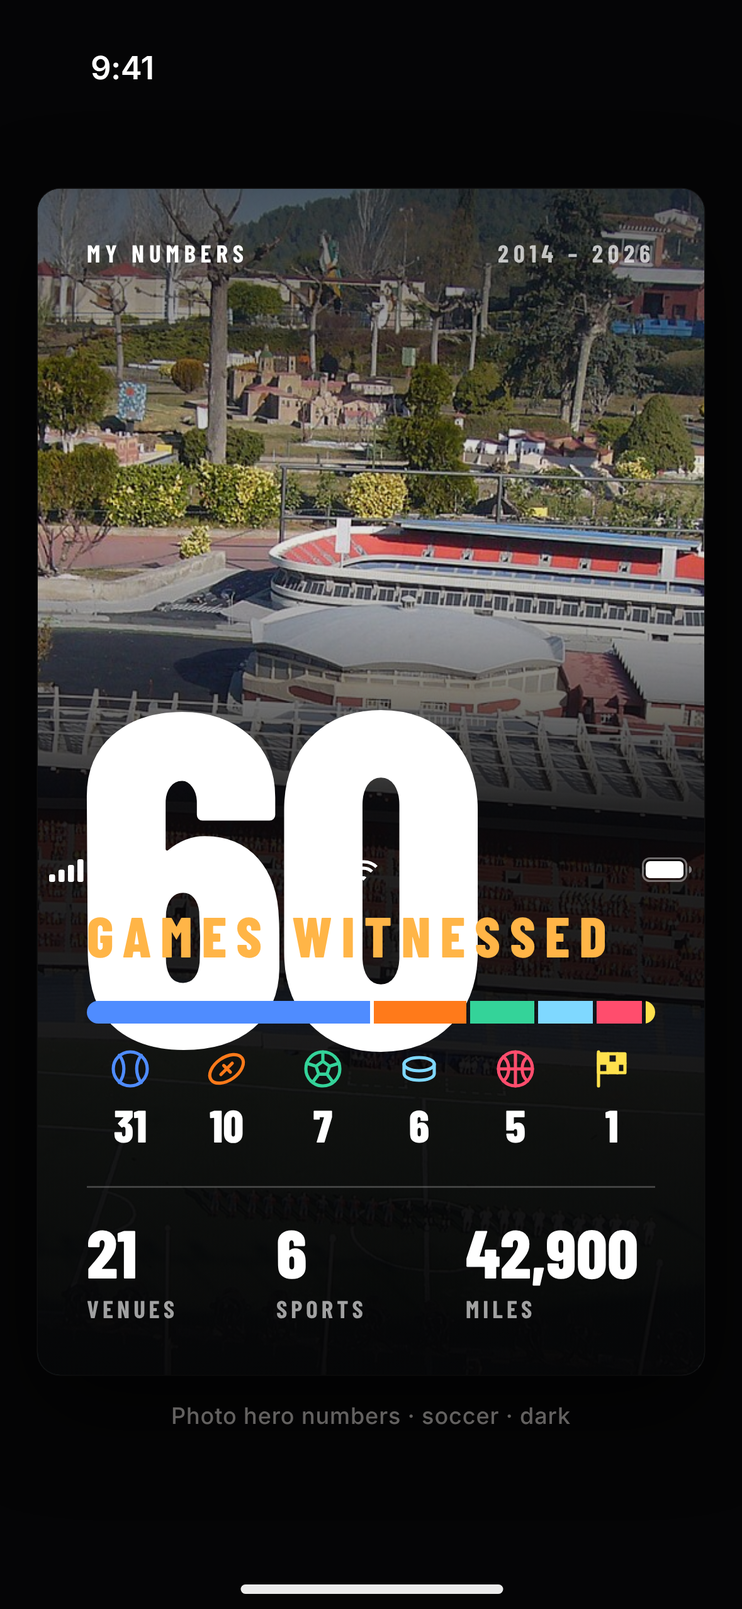
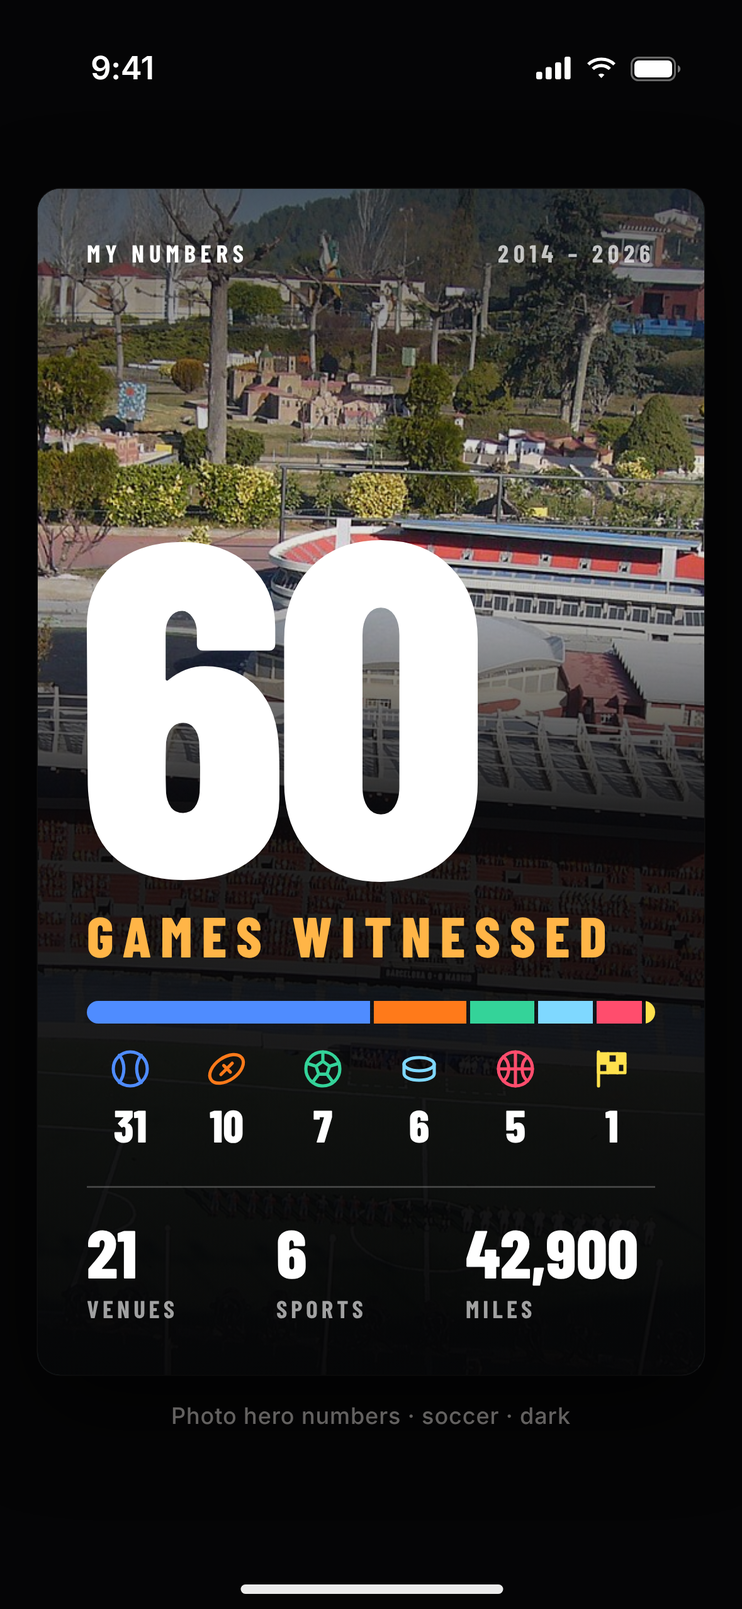
Share card round 2 mockups in progress (all sports)
Claude-Session: https://claude.ai/code/session_01YKCsRGYnDsF5Pryete24Wa

diff --git a/mockups/share-variants/features/numbers2/v5-racing-dotgrid-dark.html b/mockups/share-variants/features/numbers2/v5-racing-dotgrid-dark.html
@@ -12,27 +12,27 @@ body.phone{background:var(--ink)}
 .card{background:#07070a}
 .top{position:absolute;left:26px;right:26px;top:28px;display:flex;justify-content:space-between;color:#fff}
 .top .eb:last-child{color:var(--text-3)}
-.hero{position:absolute;left:20px;top:64px;font:800 200px/.8 var(--f-cond);letter-spacing:-6px;color:#fff}
-.lbl{position:absolute;left:26px;top:222px;font:800 28px/1 var(--f-cond);letter-spacing:5px;text-transform:uppercase;color:var(--signal)}
-.grid{position:absolute;left:26px;right:26px;top:276px;display:grid;grid-template-columns:repeat(10,1fr);gap:9px 9px}
+.hero{position:absolute;left:20px;top:56px;font:800 190px/.8 var(--f-cond);letter-spacing:-6px;color:#fff}
+.lbl{position:absolute;left:26px;top:206px;font:800 28px/1 var(--f-cond);letter-spacing:5px;text-transform:uppercase;color:var(--signal)}
+.grid{position:absolute;left:26px;right:26px;top:254px;display:grid;grid-template-columns:repeat(10,1fr);gap:9px 9px}
 .grid i{display:block;aspect-ratio:1;border-radius:50%}
 .grid i.rc{box-shadow:0 0 0 3px #07070a,0 0 0 5px #ffe14d,0 0 16px 5px rgba(255,225,77,.55)}
-.icons{position:absolute;left:26px;right:26px;top:440px;display:flex;justify-content:space-between}
+.sico{position:absolute;left:26px;right:26px;top:436px;display:flex;justify-content:space-between}
 .ic{display:flex;align-items:center;gap:6px}
 .ic b{font:800 20px/1 var(--f-cond);color:#fff}
-.callout{position:absolute;left:26px;right:26px;top:488px}
+.callout{position:absolute;left:26px;right:26px;top:480px}
 .callout b{display:block;font:800 26px/1.05 var(--f-cond);letter-spacing:.8px;text-transform:uppercase;color:#ffe14d}
 .callout span{display:block;margin-top:6px;font:600 14px/1.3 var(--f-ui);color:rgba(255,255,255,.66)}
-.row{position:absolute;left:26px;right:26px;bottom:28px;display:flex;border-top:1px solid rgba(255,255,255,.2);padding-top:16px}
+.row{position:absolute;left:26px;right:26px;bottom:24px;display:flex;border-top:1px solid rgba(255,255,255,.2);padding-top:14px}
 .row div{flex:1}
-.row b{display:block;font:800 34px/1 var(--f-cond);color:#fff}
+.row b{display:block;font:800 30px/1 var(--f-cond);color:#fff}
 .row span{display:block;margin-top:6px;font:700 13px/1 var(--f-cond);letter-spacing:2px;text-transform:uppercase;color:rgba(255,255,255,.6)}
 
 </style></head><body class="phone">
 <div class="card">
 <div class="top"><span class="eb">My numbers</span><span class="eb">2014 – 2026</span></div>
 <div class="hero">60</div><div class="lbl">Games witnessed</div>
-<div class="grid"><i style="background:#4f8cff"></i><i style="background:#4f8cff"></i><i style="background:#4f8cff"></i><i style="background:#4f8cff"></i><i style="background:#4f8cff"></i><i style="background:#4f8cff"></i><i style="background:#4f8cff"></i><i style="background:#4f8cff"></i><i style="background:#4f8cff"></i><i style="background:#4f8cff"></i><i style="background:#4f8cff"></i><i style="background:#4f8cff"></i><i style="background:#4f8cff"></i><i style="background:#4f8cff"></i><i style="background:#4f8cff"></i><i style="background:#4f8cff"></i><i style="background:#4f8cff"></i><i style="background:#4f8cff"></i><i style="background:#4f8cff"></i><i style="background:#4f8cff"></i><i style="background:#4f8cff"></i><i style="background:#4f8cff"></i><i style="background:#4f8cff"></i><i style="background:#4f8cff"></i><i style="background:#4f8cff"></i><i style="background:#4f8cff"></i><i style="background:#4f8cff"></i><i style="background:#4f8cff"></i><i style="background:#4f8cff"></i><i style="background:#4f8cff"></i><i style="background:#4f8cff"></i><i style="background:#ff7a1a"></i><i style="background:#ff7a1a"></i><i style="background:#ff7a1a"></i><i style="background:#ff7a1a"></i><i style="background:#ff7a1a"></i><i style="background:#ff7a1a"></i><i style="background:#ff7a1a"></i><i style="background:#ff7a1a"></i><i style="background:#ff7a1a"></i><i style="background:#ff7a1a"></i><i style="background:#34d399"></i><i style="background:#34d399"></i><i style="background:#34d399"></i><i style="background:#34d399"></i><i style="background:#34d399"></i><i style="background:#34d399"></i><i style="background:#34d399"></i><i style="background:#7fd8ff"></i><i style="background:#7fd8ff"></i><i style="background:#7fd8ff"></i><i style="background:#7fd8ff"></i><i style="background:#7fd8ff"></i><i style="background:#7fd8ff"></i><i style="background:#ff4d6d"></i><i style="background:#ff4d6d"></i><i style="background:#ff4d6d"></i><i style="background:#ff4d6d"></i><i style="background:#ff4d6d"></i><i class="rc" style="background:#ffe14d"></i></div><div class="icons"><div class="ic"><svg width="22" height="22" viewBox="0 0 24 24" fill="none" stroke="#4f8cff" stroke-width="1.7" stroke-linecap="round" stroke-linejoin="round" style="color:#4f8cff"><circle cx="12" cy="12" r="9"/><path d="M6.2 4.8c3.2 4.2 3.2 10.2 0 14.4M17.8 4.8c-3.2 4.2-3.2 10.2 0 14.4"/></svg><b>31</b></div><div class="ic"><svg width="22" height="22" viewBox="0 0 24 24" fill="none" stroke="#ff7a1a" stroke-width="1.7" stroke-linecap="round" stroke-linejoin="round" style="color:#ff7a1a"><ellipse cx="12" cy="12" rx="10" ry="6" transform="rotate(-35 12 12)"/><path d="M9 15l6-6M10.5 10.2l1.6 1.6M12.4 12.1l1.6 1.6"/></svg><b>10</b></div><div class="ic"><svg width="22" height="22" viewBox="0 0 24 24" fill="none" stroke="#34d399" stroke-width="1.7" stroke-linecap="round" stroke-linejoin="round" style="color:#34d399"><circle cx="12" cy="12" r="9"/><path d="M12 8l3.6 2.6-1.4 4.2H9.8l-1.4-4.2zM12 8V3M15.6 10.6l5-1.6M14.2 14.8l3 4M9.8 14.8l-3 4M8.4 10.6l-5-1.6"/></svg><b>7</b></div><div class="ic"><svg width="22" height="22" viewBox="0 0 24 24" fill="none" stroke="#7fd8ff" stroke-width="1.7" stroke-linecap="round" stroke-linejoin="round" style="color:#7fd8ff"><ellipse cx="12" cy="9.5" rx="8" ry="3.5"/><path d="M4 9.5v5c0 2 3.6 3.5 8 3.5s8-1.5 8-3.5v-5"/></svg><b>6</b></div><div class="ic"><svg width="22" height="22" viewBox="0 0 24 24" fill="none" stroke="#ff4d6d" stroke-width="1.7" stroke-linecap="round" stroke-linejoin="round" style="color:#ff4d6d"><circle cx="12" cy="12" r="9"/><path d="M3 12h18M12 3v18M5.6 5.6c3.8 3 3.8 9.8 0 12.8M18.4 5.6c-3.8 3-3.8 9.8 0 12.8"/></svg><b>5</b></div><div class="ic"><svg width="22" height="22" viewBox="0 0 24 24" fill="none" stroke="#ffe14d" stroke-width="1.7" stroke-linecap="round" stroke-linejoin="round" style="color:#ffe14d"><path d="M5 21V3"/><path d="M5 4h14v10H5z"/><path d="M5 9h14M10 4v10M15 4v10" /><path d="M5 4h5v5H5zM15 4h4v5h-4zM10 9h5v5h-5z" fill="currentColor" stroke="none"/></svg><b>1</b></div></div>
-<div class="callout"><b>And one Grand Prix</b><span>US Grand Prix · Circuit of the Americas · Oct 24 2021</span></div>
+<div class="grid"><i style="background:#4f8cff"></i><i style="background:#4f8cff"></i><i style="background:#4f8cff"></i><i style="background:#4f8cff"></i><i style="background:#4f8cff"></i><i style="background:#4f8cff"></i><i style="background:#4f8cff"></i><i style="background:#4f8cff"></i><i style="background:#4f8cff"></i><i style="background:#4f8cff"></i><i style="background:#4f8cff"></i><i style="background:#4f8cff"></i><i style="background:#4f8cff"></i><i style="background:#4f8cff"></i><i style="background:#4f8cff"></i><i style="background:#4f8cff"></i><i style="background:#4f8cff"></i><i style="background:#4f8cff"></i><i style="background:#4f8cff"></i><i style="background:#4f8cff"></i><i style="background:#4f8cff"></i><i style="background:#4f8cff"></i><i style="background:#4f8cff"></i><i style="background:#4f8cff"></i><i style="background:#4f8cff"></i><i style="background:#4f8cff"></i><i style="background:#4f8cff"></i><i style="background:#4f8cff"></i><i style="background:#4f8cff"></i><i style="background:#4f8cff"></i><i style="background:#4f8cff"></i><i style="background:#ff7a1a"></i><i style="background:#ff7a1a"></i><i style="background:#ff7a1a"></i><i style="background:#ff7a1a"></i><i style="background:#ff7a1a"></i><i style="background:#ff7a1a"></i><i style="background:#ff7a1a"></i><i style="background:#ff7a1a"></i><i style="background:#ff7a1a"></i><i style="background:#ff7a1a"></i><i style="background:#34d399"></i><i style="background:#34d399"></i><i style="background:#34d399"></i><i style="background:#34d399"></i><i style="background:#34d399"></i><i style="background:#34d399"></i><i style="background:#34d399"></i><i style="background:#7fd8ff"></i><i style="background:#7fd8ff"></i><i style="background:#7fd8ff"></i><i style="background:#7fd8ff"></i><i style="background:#7fd8ff"></i><i style="background:#7fd8ff"></i><i style="background:#ff4d6d"></i><i style="background:#ff4d6d"></i><i style="background:#ff4d6d"></i><i style="background:#ff4d6d"></i><i style="background:#ff4d6d"></i><i class="rc" style="background:#ffe14d"></i></div><div class="sico"><div class="ic"><svg width="22" height="22" viewBox="0 0 24 24" fill="none" stroke="#4f8cff" stroke-width="1.7" stroke-linecap="round" stroke-linejoin="round" style="color:#4f8cff"><circle cx="12" cy="12" r="9"/><path d="M6.2 4.8c3.2 4.2 3.2 10.2 0 14.4M17.8 4.8c-3.2 4.2-3.2 10.2 0 14.4"/></svg><b>31</b></div><div class="ic"><svg width="22" height="22" viewBox="0 0 24 24" fill="none" stroke="#ff7a1a" stroke-width="1.7" stroke-linecap="round" stroke-linejoin="round" style="color:#ff7a1a"><ellipse cx="12" cy="12" rx="10" ry="6" transform="rotate(-35 12 12)"/><path d="M9 15l6-6M10.5 10.2l1.6 1.6M12.4 12.1l1.6 1.6"/></svg><b>10</b></div><div class="ic"><svg width="22" height="22" viewBox="0 0 24 24" fill="none" stroke="#34d399" stroke-width="1.7" stroke-linecap="round" stroke-linejoin="round" style="color:#34d399"><circle cx="12" cy="12" r="9"/><path d="M12 8l3.6 2.6-1.4 4.2H9.8l-1.4-4.2zM12 8V3M15.6 10.6l5-1.6M14.2 14.8l3 4M9.8 14.8l-3 4M8.4 10.6l-5-1.6"/></svg><b>7</b></div><div class="ic"><svg width="22" height="22" viewBox="0 0 24 24" fill="none" stroke="#7fd8ff" stroke-width="1.7" stroke-linecap="round" stroke-linejoin="round" style="color:#7fd8ff"><ellipse cx="12" cy="9.5" rx="8" ry="3.5"/><path d="M4 9.5v5c0 2 3.6 3.5 8 3.5s8-1.5 8-3.5v-5"/></svg><b>6</b></div><div class="ic"><svg width="22" height="22" viewBox="0 0 24 24" fill="none" stroke="#ff4d6d" stroke-width="1.7" stroke-linecap="round" stroke-linejoin="round" style="color:#ff4d6d"><circle cx="12" cy="12" r="9"/><path d="M3 12h18M12 3v18M5.6 5.6c3.8 3 3.8 9.8 0 12.8M18.4 5.6c-3.8 3-3.8 9.8 0 12.8"/></svg><b>5</b></div><div class="ic"><svg width="22" height="22" viewBox="0 0 24 24" fill="none" stroke="#ffe14d" stroke-width="1.7" stroke-linecap="round" stroke-linejoin="round" style="color:#ffe14d"><path d="M5 21V3"/><path d="M5 4h14v10H5z"/><path d="M5 9h14M10 4v10M15 4v10" /><path d="M5 4h5v5H5zM15 4h4v5h-4zM10 9h5v5h-5z" fill="currentColor" stroke="none"/></svg><b>1</b></div></div>
+<div class="callout"><b>And one Grand Prix</b><span>Circuit of the Americas · Oct 24 2021</span></div>
 <div class="row"><div><b>21</b><span>Venues</span></div><div><b>6</b><span>Sports</span></div><div><b>42,900</b><span>Miles</span></div></div>
 </div><div class="cap">Dot grid numbers · racing · dark</div><script src="../../../kit/kit.js"></script></body></html>

diff --git a/mockups/share-variants/features/numbers2/v6-mixed-charm-paper-dots.html b/mockups/share-variants/features/numbers2/v6-mixed-charm-paper-dots.html
@@ -16,15 +16,15 @@ body.phone{background:var(--ink)}
 .av{position:absolute;left:30px;top:78px;width:64px;height:64px;border-radius:50%;background:#B79CFF;color:#1a1230;font:800 38px/64px var(--f-cond);text-align:center}
 .nm{position:absolute;left:110px;top:82px;font:800 58px/1 var(--f-cond);letter-spacing:1px;text-transform:uppercase}
 .nm2{position:absolute;left:110px;top:140px;font:700 13px/1 var(--f-cond);letter-spacing:2.4px;text-transform:uppercase;color:rgba(29,26,22,.6)}
-.hero{position:absolute;left:22px;top:170px;font:800 200px/.8 var(--f-cond);letter-spacing:-5px}
-.lbl{position:absolute;left:30px;top:336px;font:800 24px/1 var(--f-cond);letter-spacing:4px;text-transform:uppercase;color:#b4660a}
-.grid{position:absolute;left:30px;right:30px;top:384px;display:grid;grid-template-columns:repeat(10,1fr);gap:8px}
+.hero{position:absolute;left:22px;top:156px;font:800 190px/.8 var(--f-cond);letter-spacing:-5px}
+.lbl{position:absolute;left:30px;top:306px;font:800 24px/1 var(--f-cond);letter-spacing:4px;text-transform:uppercase;color:#b4660a}
+.grid{position:absolute;left:30px;right:30px;top:348px;display:grid;grid-template-columns:repeat(10,1fr);gap:6px}
 .grid i{display:block;aspect-ratio:1;border-radius:50%}
 .grid i.off{background:rgba(29,26,22,.11)}
 .grid i.l{border:2.5px solid;background:transparent}
-.icons{position:absolute;left:30px;right:30px;top:540px;display:flex;gap:18px}
+.sico{position:absolute;left:30px;right:30px;top:530px;display:flex;gap:18px}
 .ic{display:flex;align-items:center;gap:6px}.ic b{font:800 20px/1 var(--f-cond)}
-.foot{position:absolute;left:30px;right:30px;bottom:24px;border-top:1px solid rgba(29,26,22,.25);padding-top:12px;font:600 13px/1.3 var(--f-ui);color:rgba(29,26,22,.66)}
+.foot{position:absolute;left:30px;right:30px;bottom:20px;border-top:1px solid rgba(29,26,22,.25);padding-top:10px;font:600 13px/1.3 var(--f-ui);color:rgba(29,26,22,.66)}
 .foot b{display:block;font:800 20px/1.1 var(--f-cond);letter-spacing:.5px;color:var(--paper-ink);margin-bottom:3px}
 
 </style></head><body class="phone">
@@ -32,6 +32,6 @@ body.phone{background:var(--ink)}
 <div class="top"><span class="eb">Lucky charm</span><span class="eb">13 of 60 games</span></div>
 <div class="av">D</div><div class="nm">Dana</div><div class="nm2">Four sports together</div>
 <div class="hero">11–2</div><div class="lbl">Every game with her</div>
-<div class="grid"><i class="on" style="background:#1f8fc4"></i><i class="off"></i><i class="off"></i><i class="off"></i><i class="on" style="background:#d02848"></i><i class="off"></i><i class="on" style="background:#1f8fc4"></i><i class="off"></i><i class="off"></i><i class="off"></i><i class="off"></i><i class="off"></i><i class="off"></i><i class="off"></i><i class="off"></i><i class="on" style="background:#1f8fc4"></i><i class="on" style="background:#2b5fd9"></i><i class="off"></i><i class="off"></i><i class="off"></i><i class="off"></i><i class="on" style="background:#2b5fd9"></i><i class="off"></i><i class="off"></i><i class="off"></i><i class="off"></i><i class="off"></i><i class="off"></i><i class="off"></i><i class="off"></i><i class="off"></i><i class="off"></i><i class="on" style="background:#0f9d68"></i><i class="on l" style="color:#0f9d68;border-color:#0f9d68"></i><i class="off"></i><i class="off"></i><i class="off"></i><i class="off"></i><i class="off"></i><i class="on l" style="color:#2b5fd9;border-color:#2b5fd9"></i><i class="off"></i><i class="off"></i><i class="off"></i><i class="off"></i><i class="off"></i><i class="off"></i><i class="on" style="background:#2b5fd9"></i><i class="off"></i><i class="off"></i><i class="off"></i><i class="off"></i><i class="off"></i><i class="off"></i><i class="off"></i><i class="off"></i><i class="off"></i><i class="on" style="background:#2b5fd9"></i><i class="off"></i><i class="on" style="background:#d02848"></i><i class="on" style="background:#2b5fd9"></i></div><div class="icons"><div class="ic"><svg width="22" height="22" viewBox="0 0 24 24" fill="none" stroke="#2b5fd9" stroke-width="1.7" stroke-linecap="round" stroke-linejoin="round" style="color:#2b5fd9"><circle cx="12" cy="12" r="9"/><path d="M6.2 4.8c3.2 4.2 3.2 10.2 0 14.4M17.8 4.8c-3.2 4.2-3.2 10.2 0 14.4"/></svg><b>6</b></div><div class="ic"><svg width="22" height="22" viewBox="0 0 24 24" fill="none" stroke="#0f9d68" stroke-width="1.7" stroke-linecap="round" stroke-linejoin="round" style="color:#0f9d68"><circle cx="12" cy="12" r="9"/><path d="M12 8l3.6 2.6-1.4 4.2H9.8l-1.4-4.2zM12 8V3M15.6 10.6l5-1.6M14.2 14.8l3 4M9.8 14.8l-3 4M8.4 10.6l-5-1.6"/></svg><b>2</b></div><div class="ic"><svg width="22" height="22" viewBox="0 0 24 24" fill="none" stroke="#1f8fc4" stroke-width="1.7" stroke-linecap="round" stroke-linejoin="round" style="color:#1f8fc4"><ellipse cx="12" cy="9.5" rx="8" ry="3.5"/><path d="M4 9.5v5c0 2 3.6 3.5 8 3.5s8-1.5 8-3.5v-5"/></svg><b>3</b></div><div class="ic"><svg width="22" height="22" viewBox="0 0 24 24" fill="none" stroke="#d02848" stroke-width="1.7" stroke-linecap="round" stroke-linejoin="round" style="color:#d02848"><circle cx="12" cy="12" r="9"/><path d="M3 12h18M12 3v18M5.6 5.6c3.8 3 3.8 9.8 0 12.8M18.4 5.6c-3.8 3-3.8 9.8 0 12.8"/></svg><b>2</b></div></div>
-<div class="foot"><b>Without her, 30–14–2</b>Filled dot, a win · ring, a loss · grey, she was not there</div>
+<div class="grid"><i class="on" style="background:#1f8fc4"></i><i class="off"></i><i class="off"></i><i class="off"></i><i class="on" style="background:#d02848"></i><i class="off"></i><i class="on" style="background:#1f8fc4"></i><i class="off"></i><i class="off"></i><i class="off"></i><i class="off"></i><i class="off"></i><i class="off"></i><i class="off"></i><i class="off"></i><i class="on" style="background:#1f8fc4"></i><i class="on" style="background:#2b5fd9"></i><i class="off"></i><i class="off"></i><i class="off"></i><i class="off"></i><i class="on" style="background:#2b5fd9"></i><i class="off"></i><i class="off"></i><i class="off"></i><i class="off"></i><i class="off"></i><i class="off"></i><i class="off"></i><i class="off"></i><i class="off"></i><i class="off"></i><i class="on" style="background:#0f9d68"></i><i class="on l" style="color:#0f9d68;border-color:#0f9d68"></i><i class="off"></i><i class="off"></i><i class="off"></i><i class="off"></i><i class="off"></i><i class="on l" style="color:#2b5fd9;border-color:#2b5fd9"></i><i class="off"></i><i class="off"></i><i class="off"></i><i class="off"></i><i class="off"></i><i class="off"></i><i class="on" style="background:#2b5fd9"></i><i class="off"></i><i class="off"></i><i class="off"></i><i class="off"></i><i class="off"></i><i class="off"></i><i class="off"></i><i class="off"></i><i class="off"></i><i class="on" style="background:#2b5fd9"></i><i class="off"></i><i class="on" style="background:#d02848"></i><i class="on" style="background:#2b5fd9"></i></div><div class="sico"><div class="ic"><svg width="22" height="22" viewBox="0 0 24 24" fill="none" stroke="#2b5fd9" stroke-width="1.7" stroke-linecap="round" stroke-linejoin="round" style="color:#2b5fd9"><circle cx="12" cy="12" r="9"/><path d="M6.2 4.8c3.2 4.2 3.2 10.2 0 14.4M17.8 4.8c-3.2 4.2-3.2 10.2 0 14.4"/></svg><b>6</b></div><div class="ic"><svg width="22" height="22" viewBox="0 0 24 24" fill="none" stroke="#0f9d68" stroke-width="1.7" stroke-linecap="round" stroke-linejoin="round" style="color:#0f9d68"><circle cx="12" cy="12" r="9"/><path d="M12 8l3.6 2.6-1.4 4.2H9.8l-1.4-4.2zM12 8V3M15.6 10.6l5-1.6M14.2 14.8l3 4M9.8 14.8l-3 4M8.4 10.6l-5-1.6"/></svg><b>2</b></div><div class="ic"><svg width="22" height="22" viewBox="0 0 24 24" fill="none" stroke="#1f8fc4" stroke-width="1.7" stroke-linecap="round" stroke-linejoin="round" style="color:#1f8fc4"><ellipse cx="12" cy="9.5" rx="8" ry="3.5"/><path d="M4 9.5v5c0 2 3.6 3.5 8 3.5s8-1.5 8-3.5v-5"/></svg><b>3</b></div><div class="ic"><svg width="22" height="22" viewBox="0 0 24 24" fill="none" stroke="#d02848" stroke-width="1.7" stroke-linecap="round" stroke-linejoin="round" style="color:#d02848"><circle cx="12" cy="12" r="9"/><path d="M3 12h18M12 3v18M5.6 5.6c3.8 3 3.8 9.8 0 12.8M18.4 5.6c-3.8 3-3.8 9.8 0 12.8"/></svg><b>2</b></div></div>
+<div class="foot"><b>Without her, 30–14–2</b>Filled, a win · ring, a loss · grey, not there</div>
 </div><div class="cap">Lucky charm, dot grid · mixed sports · paper</div><script src="../../../kit/kit.js"></script></body></html>

diff --git a/mockups/share-variants/features/numbers2/v1-soccer-photo-dark.html b/mockups/share-variants/features/numbers2/v1-soccer-photo-dark.html
@@ -13,11 +13,11 @@ body.phone{background:var(--ink)}
 .scrim{position:absolute;inset:0;background:linear-gradient(180deg,rgba(5,5,6,.6) 0,rgba(5,5,6,.1) 24%,rgba(5,5,6,.1) 30%,rgba(5,5,6,.86) 52%,rgba(5,5,6,.97) 100%)}
 .top{position:absolute;left:26px;right:26px;top:28px;display:flex;justify-content:space-between;color:#fff}
 .top .eb:last-child{color:rgba(255,255,255,.72)}
-.hero{position:absolute;left:20px;top:262px;font:800 250px/.74 var(--f-cond);letter-spacing:-8px;color:#fff}
+.hero{position:absolute;left:20px;top:172px;font:800 250px/.74 var(--f-cond);letter-spacing:-8px;color:#fff}
 .lbl{position:absolute;left:26px;top:380px;font:800 30px/1 var(--f-cond);letter-spacing:5px;text-transform:uppercase;color:var(--signal)}
 .bar{position:absolute;left:26px;right:26px;top:430px;height:12px;border-radius:6px;overflow:hidden;display:flex;gap:2px}
 .bar i{display:block;height:100%}
-.icons{position:absolute;left:26px;right:26px;top:454px;display:flex;justify-content:space-between}
+.sico{position:absolute;left:26px;right:26px;top:454px;display:flex;justify-content:space-between}
 .ic{display:flex;flex-direction:column;align-items:center;gap:6px;width:46px}
 .ic b{font:800 24px/1 var(--f-cond);color:#fff}
 .row{position:absolute;left:26px;right:26px;bottom:28px;display:flex;border-top:1px solid rgba(255,255,255,.22);padding-top:16px}
@@ -30,6 +30,6 @@ body.phone{background:var(--ink)}
 <div class="card"><div class="ph"></div><div class="scrim"></div>
 <div class="top"><span class="eb">My numbers</span><span class="eb">2014 – 2026</span></div>
 <div class="hero">60</div><div class="lbl">Games witnessed</div>
-<div class="bar"><i style="flex:31;background:#4f8cff"></i><i style="flex:10;background:#ff7a1a"></i><i style="flex:7;background:#34d399"></i><i style="flex:6;background:#7fd8ff"></i><i style="flex:5;background:#ff4d6d"></i><i style="flex:1;background:#ffe14d"></i></div><div class="icons"><div class="ic"><svg width="24" height="24" viewBox="0 0 24 24" fill="none" stroke="#4f8cff" stroke-width="1.7" stroke-linecap="round" stroke-linejoin="round" style="color:#4f8cff"><circle cx="12" cy="12" r="9"/><path d="M6.2 4.8c3.2 4.2 3.2 10.2 0 14.4M17.8 4.8c-3.2 4.2-3.2 10.2 0 14.4"/></svg><b>31</b></div><div class="ic"><svg width="24" height="24" viewBox="0 0 24 24" fill="none" stroke="#ff7a1a" stroke-width="1.7" stroke-linecap="round" stroke-linejoin="round" style="color:#ff7a1a"><ellipse cx="12" cy="12" rx="10" ry="6" transform="rotate(-35 12 12)"/><path d="M9 15l6-6M10.5 10.2l1.6 1.6M12.4 12.1l1.6 1.6"/></svg><b>10</b></div><div class="ic"><svg width="24" height="24" viewBox="0 0 24 24" fill="none" stroke="#34d399" stroke-width="1.7" stroke-linecap="round" stroke-linejoin="round" style="color:#34d399"><circle cx="12" cy="12" r="9"/><path d="M12 8l3.6 2.6-1.4 4.2H9.8l-1.4-4.2zM12 8V3M15.6 10.6l5-1.6M14.2 14.8l3 4M9.8 14.8l-3 4M8.4 10.6l-5-1.6"/></svg><b>7</b></div><div class="ic"><svg width="24" height="24" viewBox="0 0 24 24" fill="none" stroke="#7fd8ff" stroke-width="1.7" stroke-linecap="round" stroke-linejoin="round" style="color:#7fd8ff"><ellipse cx="12" cy="9.5" rx="8" ry="3.5"/><path d="M4 9.5v5c0 2 3.6 3.5 8 3.5s8-1.5 8-3.5v-5"/></svg><b>6</b></div><div class="ic"><svg width="24" height="24" viewBox="0 0 24 24" fill="none" stroke="#ff4d6d" stroke-width="1.7" stroke-linecap="round" stroke-linejoin="round" style="color:#ff4d6d"><circle cx="12" cy="12" r="9"/><path d="M3 12h18M12 3v18M5.6 5.6c3.8 3 3.8 9.8 0 12.8M18.4 5.6c-3.8 3-3.8 9.8 0 12.8"/></svg><b>5</b></div><div class="ic"><svg width="24" height="24" viewBox="0 0 24 24" fill="none" stroke="#ffe14d" stroke-width="1.7" stroke-linecap="round" stroke-linejoin="round" style="color:#ffe14d"><path d="M5 21V3"/><path d="M5 4h14v10H5z"/><path d="M5 9h14M10 4v10M15 4v10" /><path d="M5 4h5v5H5zM15 4h4v5h-4zM10 9h5v5h-5z" fill="currentColor" stroke="none"/></svg><b>1</b></div></div>
+<div class="bar"><i style="flex:31;background:#4f8cff"></i><i style="flex:10;background:#ff7a1a"></i><i style="flex:7;background:#34d399"></i><i style="flex:6;background:#7fd8ff"></i><i style="flex:5;background:#ff4d6d"></i><i style="flex:1;background:#ffe14d"></i></div><div class="sico"><div class="ic"><svg width="24" height="24" viewBox="0 0 24 24" fill="none" stroke="#4f8cff" stroke-width="1.7" stroke-linecap="round" stroke-linejoin="round" style="color:#4f8cff"><circle cx="12" cy="12" r="9"/><path d="M6.2 4.8c3.2 4.2 3.2 10.2 0 14.4M17.8 4.8c-3.2 4.2-3.2 10.2 0 14.4"/></svg><b>31</b></div><div class="ic"><svg width="24" height="24" viewBox="0 0 24 24" fill="none" stroke="#ff7a1a" stroke-width="1.7" stroke-linecap="round" stroke-linejoin="round" style="color:#ff7a1a"><ellipse cx="12" cy="12" rx="10" ry="6" transform="rotate(-35 12 12)"/><path d="M9 15l6-6M10.5 10.2l1.6 1.6M12.4 12.1l1.6 1.6"/></svg><b>10</b></div><div class="ic"><svg width="24" height="24" viewBox="0 0 24 24" fill="none" stroke="#34d399" stroke-width="1.7" stroke-linecap="round" stroke-linejoin="round" style="color:#34d399"><circle cx="12" cy="12" r="9"/><path d="M12 8l3.6 2.6-1.4 4.2H9.8l-1.4-4.2zM12 8V3M15.6 10.6l5-1.6M14.2 14.8l3 4M9.8 14.8l-3 4M8.4 10.6l-5-1.6"/></svg><b>7</b></div><div class="ic"><svg width="24" height="24" viewBox="0 0 24 24" fill="none" stroke="#7fd8ff" stroke-width="1.7" stroke-linecap="round" stroke-linejoin="round" style="color:#7fd8ff"><ellipse cx="12" cy="9.5" rx="8" ry="3.5"/><path d="M4 9.5v5c0 2 3.6 3.5 8 3.5s8-1.5 8-3.5v-5"/></svg><b>6</b></div><div class="ic"><svg width="24" height="24" viewBox="0 0 24 24" fill="none" stroke="#ff4d6d" stroke-width="1.7" stroke-linecap="round" stroke-linejoin="round" style="color:#ff4d6d"><circle cx="12" cy="12" r="9"/><path d="M3 12h18M12 3v18M5.6 5.6c3.8 3 3.8 9.8 0 12.8M18.4 5.6c-3.8 3-3.8 9.8 0 12.8"/></svg><b>5</b></div><div class="ic"><svg width="24" height="24" viewBox="0 0 24 24" fill="none" stroke="#ffe14d" stroke-width="1.7" stroke-linecap="round" stroke-linejoin="round" style="color:#ffe14d"><path d="M5 21V3"/><path d="M5 4h14v10H5z"/><path d="M5 9h14M10 4v10M15 4v10" /><path d="M5 4h5v5H5zM15 4h4v5h-4zM10 9h5v5h-5z" fill="currentColor" stroke="none"/></svg><b>1</b></div></div>
 <div class="row"><div><b>21</b><span>Venues</span></div><div><b>6</b><span>Sports</span></div><div><b>42,900</b><span>Miles</span></div></div>
 </div><div class="cap">Photo hero numbers · soccer · dark</div><script src="../../../kit/kit.js"></script></body></html>

diff --git a/mockups/share-variants/features/numbers2/v2-football-paper-bars.html b/mockups/share-variants/features/numbers2/v2-football-paper-bars.html
@@ -10,23 +10,23 @@ body.phone{background:var(--ink)}
 .abs{position:absolute}
 
 .card{background:var(--paper);color:var(--paper-ink)}
-.win{position:absolute;left:18px;right:18px;top:18px;height:226px;border-radius:6px;background:url(../../../photos/soldier-aerial.jpg) 50% 45%/cover}
+.win{position:absolute;left:18px;right:18px;top:18px;height:160px;border-radius:6px;background:url(../../../photos/soldier-aerial.jpg) 50% 45%/cover}
 .win:after{content:"";position:absolute;inset:0;border-radius:6px;box-shadow:inset 0 0 0 1px rgba(0,0,0,.12)}
 .eb{color:var(--paper-ink)}
 .tag{position:absolute;left:30px;top:30px;background:var(--paper);padding:7px 10px 6px;border-radius:3px}
-.hero{position:absolute;left:14px;top:222px;font:800 188px/.8 var(--f-cond);letter-spacing:-6px;color:var(--paper-ink)}
-.lbl{position:absolute;left:30px;top:362px;font:800 24px/1 var(--f-cond);letter-spacing:4px;text-transform:uppercase;color:#b4660a}
-.side{position:absolute;right:30px;top:268px;text-align:right}
+.hero{position:absolute;left:14px;top:176px;font:800 188px/.8 var(--f-cond);letter-spacing:-6px;color:var(--paper-ink)}
+.lbl{position:absolute;left:30px;top:330px;font:800 24px/1 var(--f-cond);letter-spacing:4px;text-transform:uppercase;color:#b4660a}
+.side{position:absolute;right:30px;top:196px;text-align:right}
 .side b{display:block;font:800 52px/1 var(--f-cond)}
 .side span{display:block;margin-top:4px;font:700 13px/1 var(--f-cond);letter-spacing:2px;text-transform:uppercase;color:rgba(29,26,22,.6)}
 .side div+div{margin-top:12px}
-.bars{position:absolute;left:30px;right:30px;top:410px}
-.br{display:flex;align-items:center;gap:10px;height:30px}
+.bars{position:absolute;left:30px;right:30px;top:374px}
+.br{display:flex;align-items:center;gap:10px;height:26px}
 .br .n{display:flex;align-items:center;gap:8px;width:116px;font:700 14px/1 var(--f-cond);letter-spacing:1.4px;text-transform:uppercase}
 .br .t{flex:1;height:10px;border-radius:5px;background:rgba(29,26,22,.08)}
 .br .t i{display:block;height:100%;border-radius:5px}
 .br b{width:26px;text-align:right;font:800 20px/1 var(--f-cond)}
-.foot{position:absolute;left:30px;right:30px;bottom:24px;border-top:1px solid rgba(29,26,22,.25);padding-top:12px}
+.foot{position:absolute;left:30px;right:30px;bottom:22px;border-top:1px solid rgba(29,26,22,.25);padding-top:12px}
 .foot b{display:block;font:800 22px/1.1 var(--f-cond);letter-spacing:.5px}
 .foot span{display:block;margin-top:5px;font:600 13px/1.2 var(--f-ui);color:rgba(29,26,22,.62)}
 
@@ -35,5 +35,5 @@ body.phone{background:var(--ink)}
 <div class="hero">60</div><div class="lbl">Games witnessed</div>
 <div class="side"><div><b>21</b><span>Venues</span></div><div><b>42,900</b><span>Miles</span></div></div>
 <div class="bars"><div class="br"><span class="n"><svg width="22" height="22" viewBox="0 0 24 24" fill="none" stroke="#2b5fd9" stroke-width="1.7" stroke-linecap="round" stroke-linejoin="round" style="color:#2b5fd9"><circle cx="12" cy="12" r="9"/><path d="M6.2 4.8c3.2 4.2 3.2 10.2 0 14.4M17.8 4.8c-3.2 4.2-3.2 10.2 0 14.4"/></svg>Baseball</span><span class="t"><i style="width:100.0%;background:#2b5fd9"></i></span><b>31</b></div><div class="br"><span class="n"><svg width="22" height="22" viewBox="0 0 24 24" fill="none" stroke="#dd5f0c" stroke-width="1.7" stroke-linecap="round" stroke-linejoin="round" style="color:#dd5f0c"><ellipse cx="12" cy="12" rx="10" ry="6" transform="rotate(-35 12 12)"/><path d="M9 15l6-6M10.5 10.2l1.6 1.6M12.4 12.1l1.6 1.6"/></svg>Football</span><span class="t"><i style="width:32.3%;background:#dd5f0c"></i></span><b>10</b></div><div class="br"><span class="n"><svg width="22" height="22" viewBox="0 0 24 24" fill="none" stroke="#0f9d68" stroke-width="1.7" stroke-linecap="round" stroke-linejoin="round" style="color:#0f9d68"><circle cx="12" cy="12" r="9"/><path d="M12 8l3.6 2.6-1.4 4.2H9.8l-1.4-4.2zM12 8V3M15.6 10.6l5-1.6M14.2 14.8l3 4M9.8 14.8l-3 4M8.4 10.6l-5-1.6"/></svg>Soccer</span><span class="t"><i style="width:22.6%;background:#0f9d68"></i></span><b>7</b></div><div class="br"><span class="n"><svg width="22" height="22" viewBox="0 0 24 24" fill="none" stroke="#1f8fc4" stroke-width="1.7" stroke-linecap="round" stroke-linejoin="round" style="color:#1f8fc4"><ellipse cx="12" cy="9.5" rx="8" ry="3.5"/><path d="M4 9.5v5c0 2 3.6 3.5 8 3.5s8-1.5 8-3.5v-5"/></svg>Hockey</span><span class="t"><i style="width:19.4%;background:#1f8fc4"></i></span><b>6</b></div><div class="br"><span class="n"><svg width="22" height="22" viewBox="0 0 24 24" fill="none" stroke="#d02848" stroke-width="1.7" stroke-linecap="round" stroke-linejoin="round" style="color:#d02848"><circle cx="12" cy="12" r="9"/><path d="M3 12h18M12 3v18M5.6 5.6c3.8 3 3.8 9.8 0 12.8M18.4 5.6c-3.8 3-3.8 9.8 0 12.8"/></svg>Basketball</span><span class="t"><i style="width:16.1%;background:#d02848"></i></span><b>5</b></div><div class="br"><span class="n"><svg width="22" height="22" viewBox="0 0 24 24" fill="none" stroke="#c99a00" stroke-width="1.7" stroke-linecap="round" stroke-linejoin="round" style="color:#c99a00"><path d="M5 21V3"/><path d="M5 4h14v10H5z"/><path d="M5 9h14M10 4v10M15 4v10" /><path d="M5 4h5v5H5zM15 4h4v5h-4zM10 9h5v5h-5z" fill="currentColor" stroke="none"/></svg>Racing</span><span class="t"><i style="width:3.2%;background:#c99a00"></i></span><b>1</b></div></div>
-<div class="foot"><b>Bears 27, Vikings 24</b><span>Latest football night · Soldier Field · Nov 2 2025</span></div>
+<div class="foot"><b>Bears 27, Vikings 24</b><span>Soldier Field · Nov 2 2025 · latest football</span></div>
 </div><div class="cap">Paper keepsake numbers · football · light</div><script src="../../../kit/kit.js"></script></body></html>

diff --git a/mockups/share-variants/features/game2/v5-basketball-hero.html b/mockups/share-variants/features/game2/v5-basketball-hero.html
@@ -13,8 +13,8 @@ body{width:393px;height:852px;display:flex;flex-direction:column;align-items:cen
 .bg{left:-190px;top:130px;width:790px;height:527px;filter:saturate(1.05) brightness(.95)}
 .sh{position:absolute;inset:0;background:linear-gradient(180deg,rgba(5,5,6,1) 0%,rgba(5,5,6,.4) 22%,rgba(5,5,6,0) 30%,rgba(5,5,6,0) 52%,rgba(5,5,6,.82) 82%,#050506 100%)}
 .top{position:absolute;left:24px;right:24px;top:28px;color:var(--signal)}
-.score{position:absolute;left:24px;top:56px;font-size:92px;letter-spacing:-2px;color:#fff;display:flex;align-items:baseline;gap:10px}
-.score i{font-style:normal;color:var(--signal);font-size:60px;font-weight:700}
+.score{position:absolute;left:24px;top:56px;font-size:86px;letter-spacing:-2px;color:#fff;display:flex;align-items:baseline;gap:10px}
+.score i{font-style:normal;color:var(--signal);font-size:56px;font-weight:700}
 .score .l{color:rgba(255,255,255,.8)}
 .bot{position:absolute;left:24px;right:24px;bottom:28px}
 .bot .h{font:800 34px/1 var(--f-cond);text-transform:uppercase;letter-spacing:.5px}

diff --git a/mockups/share-variants/features/numbers2/v4-hockey-charm-paper.html b/mockups/share-variants/features/numbers2/v4-hockey-charm-paper.html
@@ -23,7 +23,7 @@ body.phone{background:var(--ink)}
 .pk span{display:flex;align-items:center;gap:6px}
 .pk em{width:10px;height:10px;border-radius:50%;display:block}
 .cmp{position:absolute;left:30px;right:30px;top:508px;font:600 14px/1.3 var(--f-ui);color:rgba(29,26,22,.7)}
-.foot{position:absolute;left:30px;right:30px;bottom:24px;border-top:1px solid rgba(29,26,22,.25);padding-top:12px}
+.foot{position:absolute;left:30px;right:30px;bottom:22px;border-top:1px solid rgba(29,26,22,.25);padding-top:12px}
 .foot b{display:block;font:800 22px/1.1 var(--f-cond);letter-spacing:.5px}
 .foot span{display:block;margin-top:5px;font:600 13px/1.2 var(--f-ui);color:rgba(29,26,22,.62)}
 
